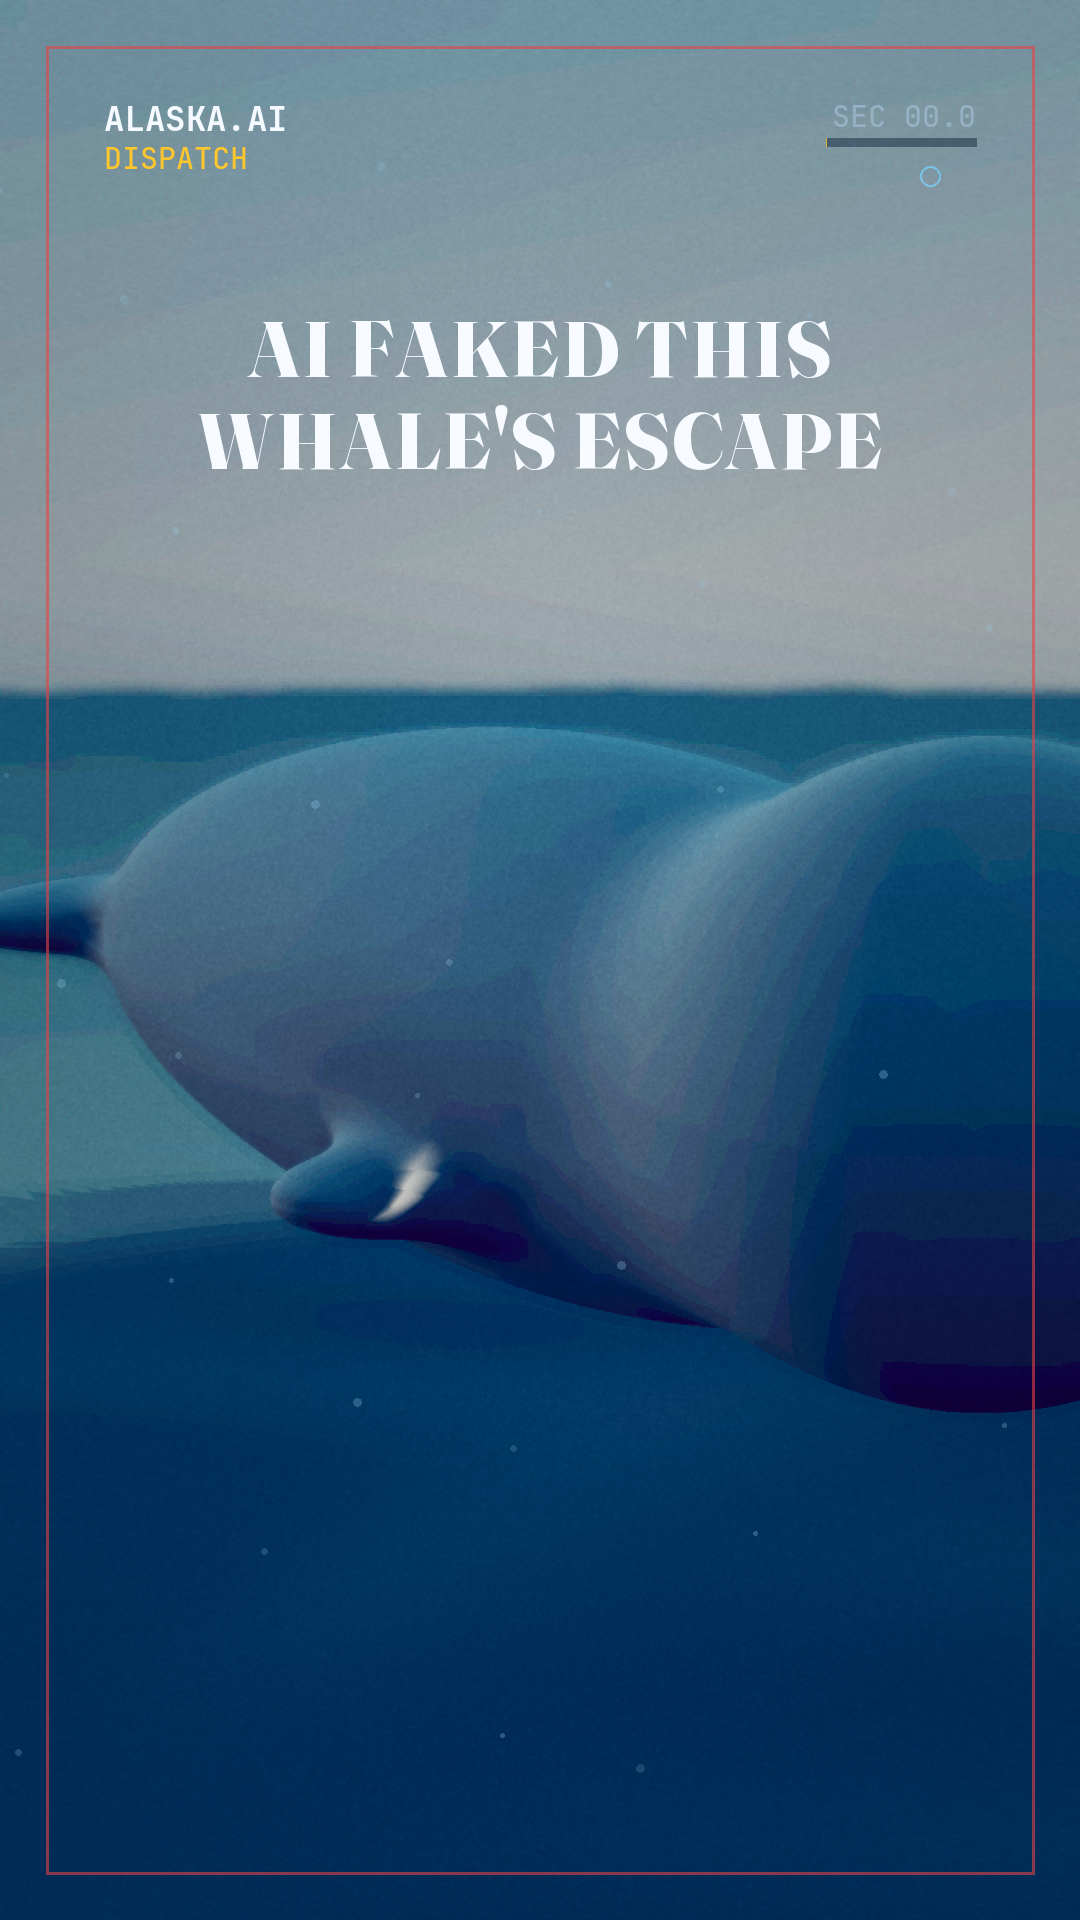
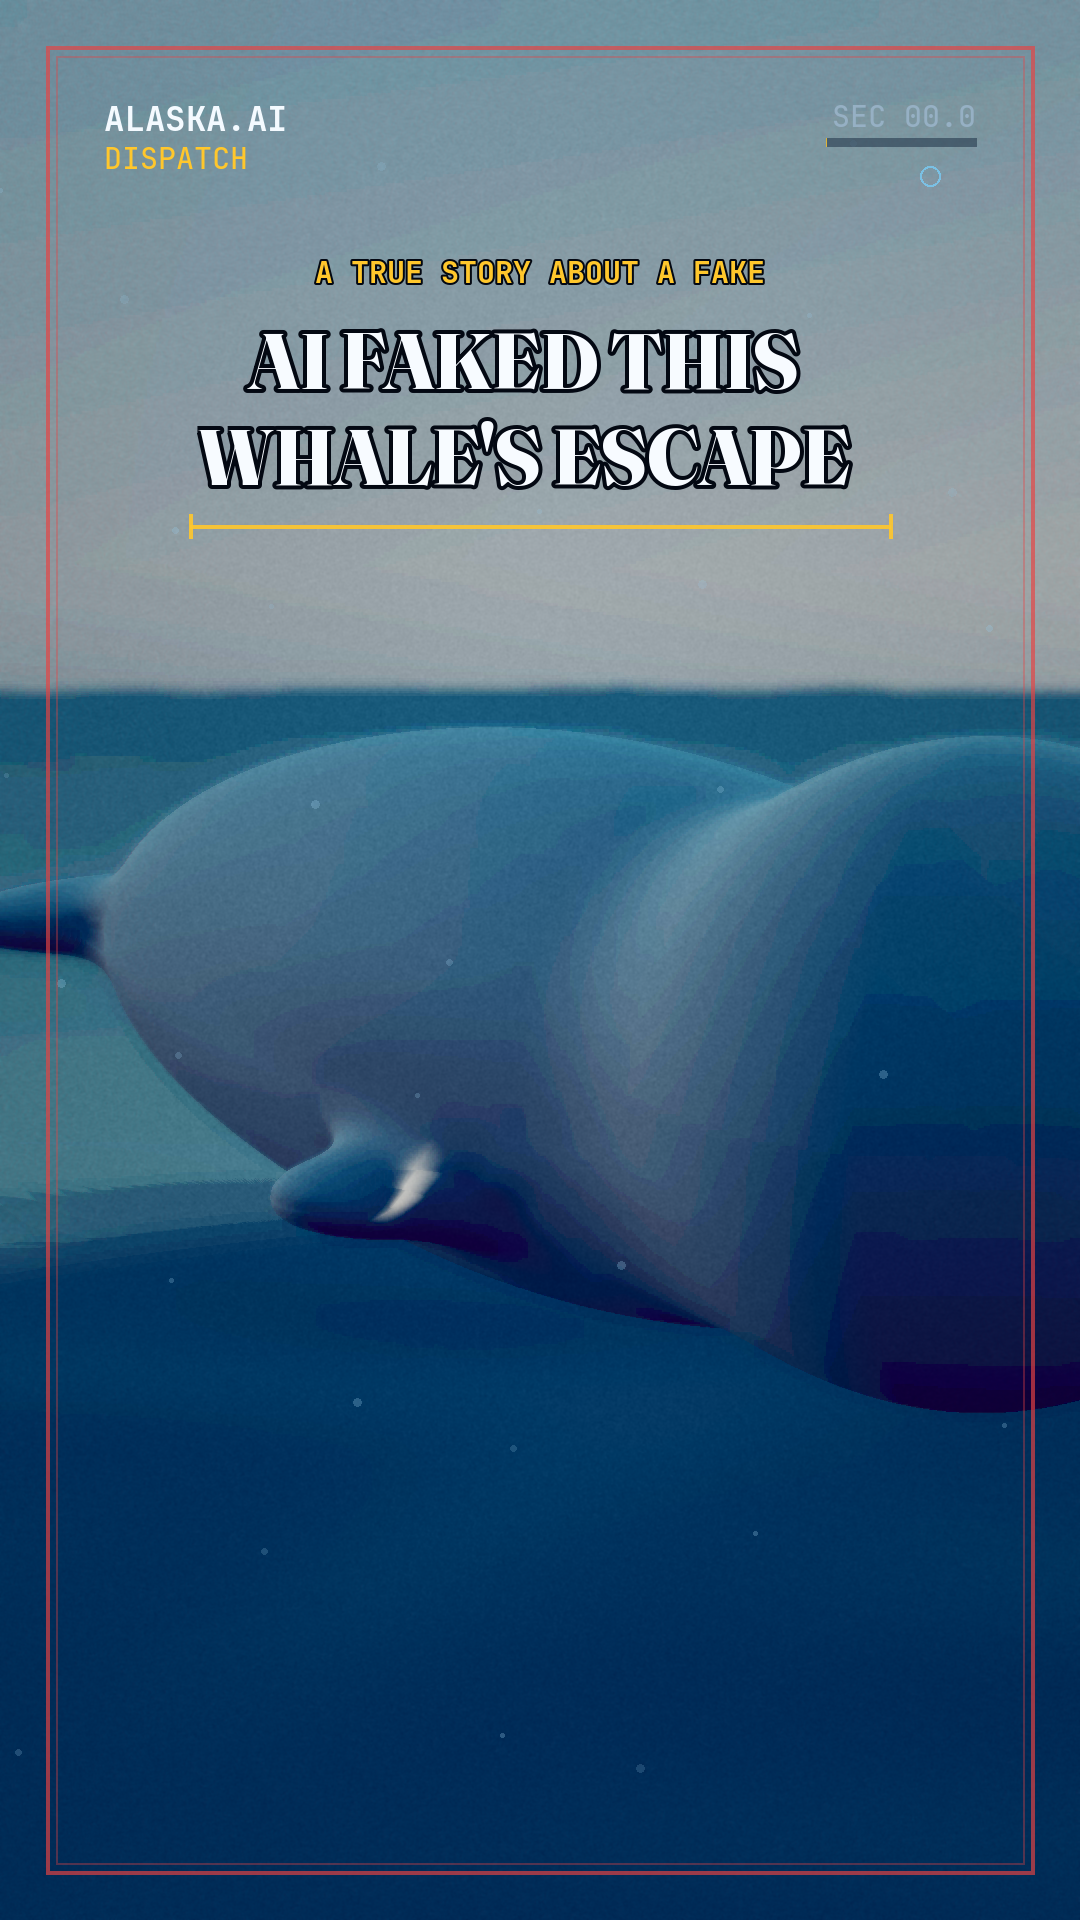
Gate-B fix round: glyph, race collision, pixel-shed streaming, whale texture, VO question button
Editor blockers: 'LIKELY ≠ PROOF' fell back to a hash glyph (now words: LIKELY
IS NOT PROOF) and the FAKE/PROOF race collided with the stamp + grid with a
clipped label (now its own titled plate at y560, capped, high-contrast).
Panel notes addressed concretely: real whale gains fbm skin mottling, dorsal
ridge + a dark eye while the FAKE stays suspiciously smooth (the texture IS
the honesty tell); pixel-shed cubes now stream continuously per second;
warmer key against the teal; ILLUSTRATIVE label sits fully inside the phone;
VO button is now a real question (Who is yours?). Full re-render underway;
panel round 2 to follow. Panel r1 median 7.9, zero hard blockers (disclosed).

Claude-Session: https://claude.ai/code/session_01D9bufTWd8DE73PXXauboE3

Changed region(s): [[0.1833, 0.125, 0.825, 0.2812]]

diff --git a/out/dispatch/code/render_thefake.py b/out/dispatch/code/render_thefake.py
@@ -42,7 +42,7 @@ def shot_of(f):
 
 # ---------------- palette / light (night-practical: lit from within) ----------------
 dim.SUN_DIR = (0.35, 0.72, 0.55)          # soft overhead-ish key (a tank toplight)
-dim.SUN_COL = (1.15, 1.02, 0.86)
+dim.SUN_COL = (1.26, 1.04, 0.78)          # warmer key: a stronger warm/cool axis against the teal
 dim.SKY_COL = (0.05, 0.13, 0.16)          # deep aquarium teal ambient
 dim.SKY_HI = (0.10, 0.22, 0.28)
 dim.FOG_DEN = 0.028
@@ -115,11 +115,12 @@ def _scene(p, t):
         bp = beluga_world_pos(p, 0.0, 0.0, 2.6, 1.15)
         whale = sd_beluga(bp, t, 0.45, 1.7)        # RECOGNIZABLE beluga in profile
         d = ti.min(d, whale)
-        # the TAIL dissolves into distinct voxel cubes: gated to a sphere around the tail, growing +
-        # drifting with dissolve so a muted viewer reads "the fake breaking into pixels"
+        # the TAIL dissolves into distinct voxel cubes that visibly STREAM up and away every frame
+        # (continuous per-second drift, not just the slow dissolve ramp) so the shed reads in a
+        # half-second filmstrip window, not only across the whole shot
         tailr = (ti.Vector([p.x, p.y, p.z - 1.75])).norm()
         near_tail = ti.math.clamp(1.0 - tailr / 1.5, 0.0, 1.0)
-        vp = ti.Vector([p.x - 0.3 * diss, p.y - 0.3 * diss, p.z])
+        vp = ti.Vector([p.x - 0.3 * diss - 0.22 * t, p.y - 0.3 * diss - 0.10 * t, p.z])
         rep = dim.op_rep2(vp, 0.4)
         cube = dim.sd_box(rep, ti.Vector([0.0, 0.0, 0.0]), ti.Vector([0.10, 0.10, 0.10]))
         cube += (1.0 - near_tail * diss) * 30.0
@@ -152,13 +153,22 @@ def _mat(p, n, t):
         col = ti.Vector([0.05, 0.11, 0.13])        # deep teal wall
         if p.y < -1.9:
             col = ti.Vector([0.07, 0.13, 0.14])     # floor
-        # the beluga: pearl white where near its skin
+        # the REAL beluga: pearl skin with living micro-texture (mottling, a dark eye, a scarred
+        # dorsal ridge). The FAKE in S3 stays suspiciously smooth — the texture IS the honesty tell.
         cz = 2.6 if c < 0.5 else 2.7
         bp = beluga_world_pos(p, 0.0, 0.03, cz, 1.0)
         if sd_beluga(bp, t, 0.5, 0.0) < 0.05:
-            col = ti.Vector([0.82, 0.86, 0.90])     # pearl skin
+            mot = 0.030 * dim.fbm2(bp.x * 6.5 + 3.0, bp.z * 5.0) + 0.018 * dim.fbm2(bp.z * 14.0, bp.y * 11.0)
+            base = 0.84 + mot
+            col = ti.Vector([base - 0.02, base, base + 0.04])          # mottled pearl skin
             if bp.z > 0.7 and bp.y > 0.05:
-                col = ti.Vector([0.90, 0.93, 0.96]) # bright melon crown
+                col = ti.Vector([0.90 + mot, 0.93 + mot, 0.96 + mot])  # bright melon crown
+            if bp.y > 0.24 and ti.abs(bp.x) < 0.06 and bp.z < 0.55:
+                col *= 0.90                                            # faint dorsal ridge line
+            eye = (bp - ti.Vector([0.24, 0.02, 0.72])).norm()
+            eye2 = (bp - ti.Vector([-0.24, 0.02, 0.72])).norm()
+            if ti.min(eye, eye2) < 0.045:
+                col = ti.Vector([0.10, 0.11, 0.13])                    # the dark eye
     elif c < 1.5:                                  # feed: cold dark screen-room (phone drawn by PIL)
         col = ti.Vector([0.06, 0.09, 0.15])         # slate-blue wall (distinct from teal tank)
         if p.y < -1.9:
@@ -178,7 +188,7 @@ def _mat(p, n, t):
             col = ti.Vector([0.82, 0.86, 0.90])
             if bp.z > 0.7 and bp.y > 0.05:
                 col = ti.Vector([0.90, 0.93, 0.96])
-        vp = ti.Vector([p.x - 0.3 * diss, p.y - 0.3 * diss, p.z])
+        vp = ti.Vector([p.x - 0.3 * diss - 0.22 * t, p.y - 0.3 * diss - 0.10 * t, p.z])
         rep = dim.op_rep2(vp, 0.4)
         if dim.sd_box(rep, ti.Vector([0.0, 0.0, 0.0]), ti.Vector([0.10, 0.10, 0.10])) < 0.05:
             col = ti.Vector([0.95, 0.28, 0.92])     # synthetic magenta voxels (toned down)
@@ -350,11 +360,11 @@ def draw_chrome(base, f):
         target = 5_940_000
         shown = int(target * min(1.0, E.out_cubic(min(1.0, u * 1.5))))
         cf = dc.mono(78, b=True); cs = f"{shown:,}"
-        cw = dc.tw(cs, cf); d.text(((W - cw) // 2, 1196), cs, font=cf, fill=(*SNOW, int(248 * bootw)))
-        lf = dc.mono(30, m=True); lab = "VIEWS  ·  ONE POST"
-        lw = dc.tw(lab, lf); d.text(((W - lw) // 2, 1288), lab, font=lf, fill=(150, 178, 200, int(230 * bootw)))
-        il = dc.mono(22); ilt = "ILLUSTRATIVE · reported by Alaska Public Media"
-        iw = dc.tw(ilt, il); d.text(((W - iw) // 2, 1330), ilt, font=il, fill=(150, 130, 90, 220) if (f // 8) % 2 else (120, 105, 70, 150))
+        cw = dc.tw(cs, cf); d.text(((W - cw) // 2, 1190), cs, font=cf, fill=(*SNOW, int(248 * bootw)))
+        lf = dc.mono(28, m=True); lab = "VIEWS  ·  ONE POST"
+        lw = dc.tw(lab, lf); d.text(((W - lw) // 2, 1278), lab, font=lf, fill=(150, 178, 200, int(230 * bootw)))
+        il = dc.mono(21, b=True); ilt = "ILLUSTRATIVE · Alaska Public Media"   # short enough to sit fully inside the screen
+        iw = dc.tw(ilt, il); d.text(((W - iw) // 2, 1312), ilt, font=il, fill=(196, 168, 110, int(235 * bootw)) if (f // 8) % 2 else (160, 138, 92, int(190 * bootw)))
         # like/share stutter row (an extra disjoint motion region)
         for k in range(3):
             bx = sx0 + 40 + k * 130; on = ((f // 6) % 3) >= k
@@ -395,7 +405,7 @@ def draw_chrome(base, f):
         lf = dc.mono(32, m=True); lab = "DETECTOR: HIVE MODERATION"
         lw = dc.tw(lab, lf); d.text(((W - lw) // 2, 1300), lab, font=lf, fill=(160, 150, 170, 220))
         if scan > 0.9:
-            nf = dc.mono(30, b=True); nt = "LIKELY  ≠  PROOF"
+            nf = dc.mono(30, b=True); nt = "LIKELY IS NOT PROOF"   # words, not the ≠ glyph (font fallback rendered it as '#')
             nw = dc.tw(nt, nf); d.text(((W - nw) // 2, 1340), nt, font=nf, fill=(*RED, 230))
         # scan line sweeping the card (motion region)
         sx = 150 + int(780 * (0.5 + 0.5 * math.sin(t * 3.0)))
@@ -427,18 +437,24 @@ def draw_chrome(base, f):
             sw = dc.tw(st, sf); dc.tk(sd, st, sf, (*RED, int(250 * sa)), (900 - sw) // 2, 40, 0.0)
             stamp = stamp.rotate(rot, expand=True, resample=Image.BICUBIC)
             im.paste(stamp, ((W - stamp.width) // 2, 980 - int((1 - sa) * 30)), stamp)
-        # the caveat RACE (last ~4s of the shot): red FAKE line outruns grey PROOF bar
+        # the caveat RACE (last ~4s of the shot): red FAKE line outruns grey PROOF bar.
+        # Lives in its OWN clear band high in the frame (the stamp owns ~950-1150; facts own
+        # 1200-1330) — no collision — on a dark backing plate for contrast, lines capped at
+        # x<=850 so labels never clip the frame edge.
         if u > 0.62:
             rr = (u - 0.62) / 0.34
-            yb = 1130
-            fx = 150 + int(760 * min(1.0, rr * 1.8))
-            d.line([(150, yb), (fx, yb)], fill=(*RED, 235), width=8)
-            d.ellipse([fx - 9, yb - 9, fx + 9, yb + 9], fill=(*RED, 245))
-            px = 150 + int(760 * min(1.0, rr * 0.7))
-            d.line([(150, yb + 34), (px, yb + 34)], fill=(150, 160, 172, 220), width=6)
-            lf = dc.mono(26, m=True)
-            d.text((fx + 14, yb - 16), "FAKE", font=lf, fill=(*RED, 230))
-            d.text((px + 14, yb + 22), "PROOF", font=lf, fill=(150, 160, 172, 220))
+            yb = 560
+            d.rounded_rectangle([104, yb - 64, 976, yb + 92], radius=14, fill=(6, 9, 15, 190))
+            tf2 = dc.mono(28, b=True); tt2 = "A LIE MOVES FASTER THAN PROOF"
+            tw2 = dc.tw(tt2, tf2); d.text(((W - tw2) // 2, yb - 52), tt2, font=tf2, fill=(226, 235, 245, 235))
+            fx = 150 + int(700 * min(1.0, rr * 1.8))
+            d.line([(150, yb + 6), (fx, yb + 6)], fill=(*RED, 245), width=10)
+            d.ellipse([fx - 10, yb - 4, fx + 10, yb + 16], fill=(*RED, 250))
+            px = 150 + int(700 * min(1.0, rr * 0.7))
+            d.line([(150, yb + 52), (px, yb + 52)], fill=(196, 206, 218, 240), width=8)
+            lf = dc.mono(26, b=True)
+            d.text((min(fx + 14, 900), yb - 8), "FAKE", font=lf, fill=(*RED, 245))
+            d.text((min(px + 14, 890), yb + 38), "PROOF", font=lf, fill=(206, 216, 228, 240))
 
     # ---- kinetic voice-synced captions (brand throughline; drives READABILITY) ----
     dc.caption(im, f)

diff --git a/out/dispatch/build_storyboard.py b/out/dispatch/build_storyboard.py
@@ -18,7 +18,7 @@ SEG = [
     "The Alaska SeaLife Center has run since 1998, and no beluga has ever escaped.",
     "So they said it plainly. This never happened. And the account came down.",
     "AI can draw a lie faster than we can prove it false.",
-    "The catch was not a smarter machine. It was a place that knew the truth.",
+    "The catch was not a smarter machine. It was a place that knew the truth. Who is yours?",
 ]
 
 fingerprint = {
@@ -200,7 +200,7 @@ beats = [
      "choreo": {"primary": "the real tank fades up, beluga at rest",
                 "reaction": "caustics resume gently across her back",
                 "ambient": "particulate drift returns"}},
-    {"t": "51.0-54.5", "vo": "It was a place that knew the truth.",
+    {"t": "51.0-54.5", "vo": "It was a place that knew the truth. Who is yours?",
      "shows": "the beluga settles center; the ALASKA.AI wordmark resolves",
      "sfx": "a soft resolving chime, fade to the signoff", "means": "the button lands on knowing",
      "choreo": {"primary": "camera micro-drift holds on the calm whale",

diff --git a/out/dispatch/storyboard.md b/out/dispatch/storyboard.md
@@ -46,7 +46,7 @@
 - `39.0-43.0` **the feed panel greys out and collapses** — vo: "And the account came down." · sfx: a short power-down sweep as the panel dies
 - `43.0-47.0` **a fast red FAKE line races across; a slow grey PROOF bar crawls behind and never catches it** — vo: "AI can draw a lie faster than we can prove it false." · sfx: a low sustained tone, sober
 - `47.0-51.0` **crossfade back to the real beluga at rest in her tank** — vo: "The catch was not a smarter machine." · sfx: the water-room tone returns, warm
-- `51.0-54.5` **the beluga settles center; the ALASKA.AI wordmark resolves** — vo: "It was a place that knew the truth." · sfx: a soft resolving chime, fade to the signoff
+- `51.0-54.5` **the beluga settles center; the ALASKA.AI wordmark resolves** — vo: "It was a place that knew the truth. Who is yours?" · sfx: a soft resolving chime, fade to the signoff
 - `54.5-58.0` **a last caustic sweep crosses her back as the tagline resolves and the loop-frame clicks** — vo: "" · sfx: a soft low shimmer under the tagline
 
 ## VO script
@@ -61,4 +61,4 @@
 8. The Alaska SeaLife Center has run since 1998, and no beluga has ever escaped.
 9. So they said it plainly. This never happened. And the account came down.
 10. AI can draw a lie faster than we can prove it false.
-11. The catch was not a smarter machine. It was a place that knew the truth.
+11. The catch was not a smarter machine. It was a place that knew the truth. Who is yours?